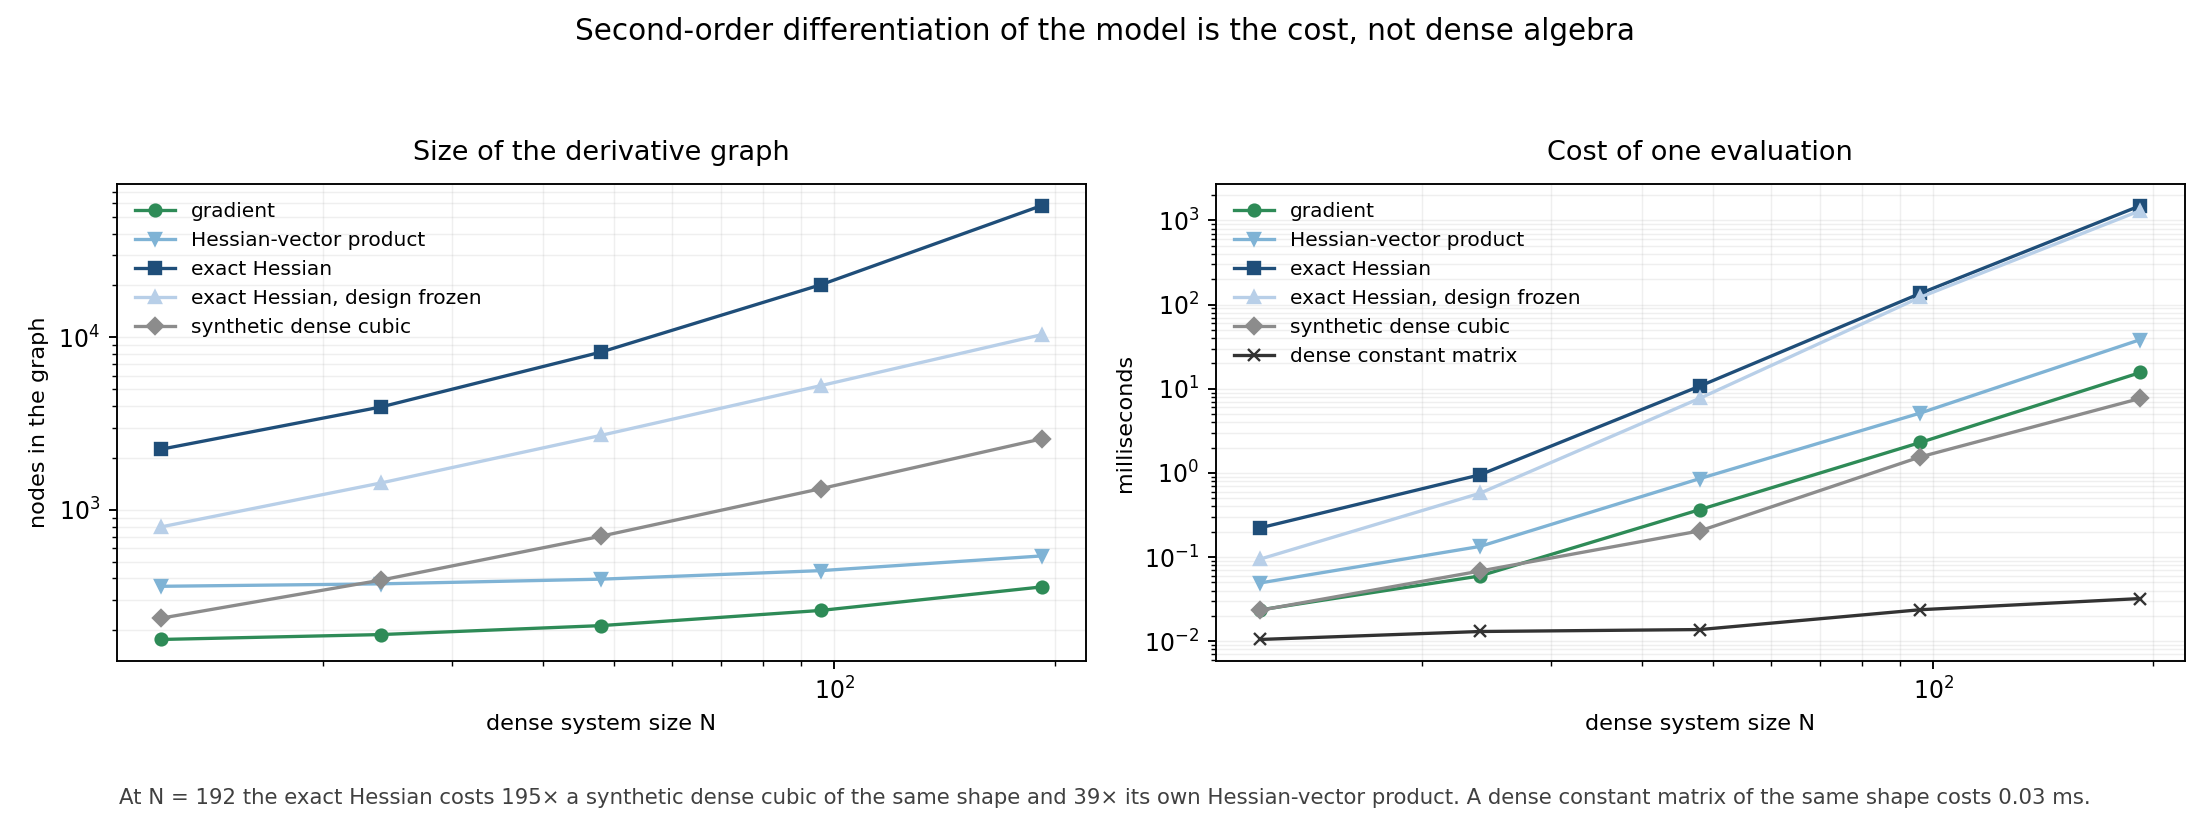
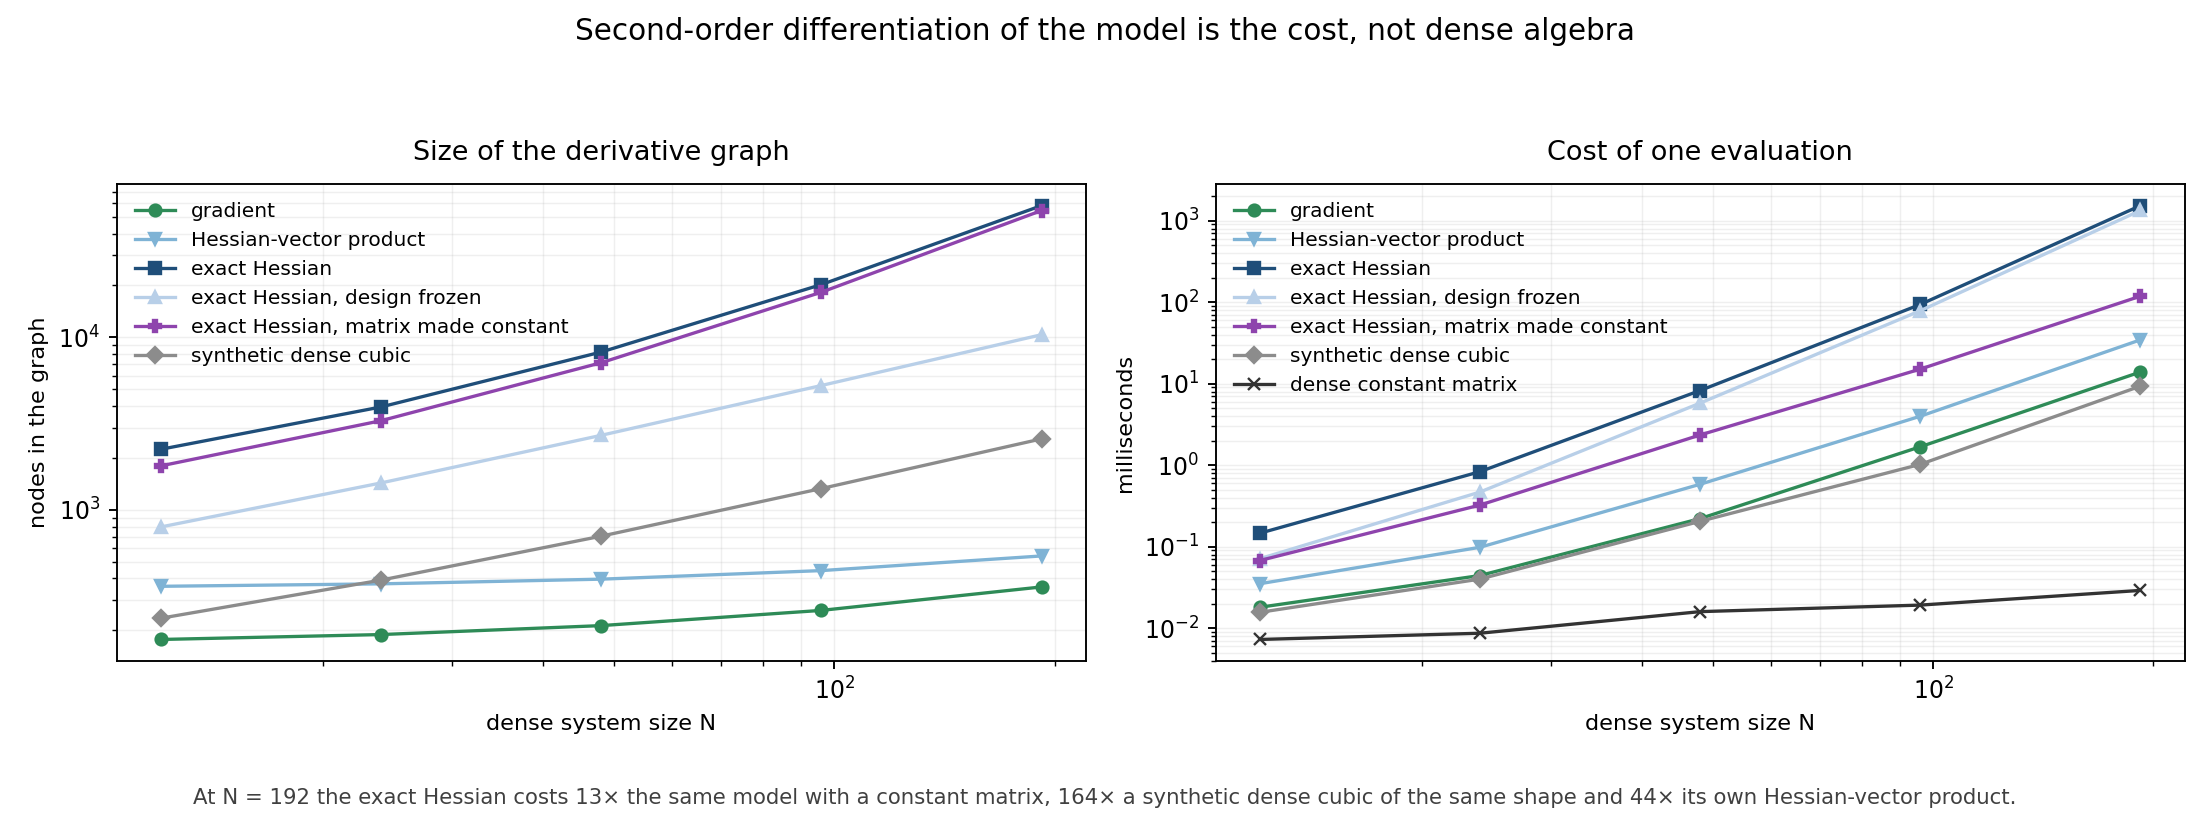
Replace the last hypothesis with a measurement
A third control makes the matrix constant, so that no solve has to be
differentiated: at N=192 the same model drops from 1529 ms to 118 ms, while
freezing the design parameters buys only 13 %. The cost is the second-order
differentiation of the dense solve, which the two earlier lessons had only ruled
out explanations for.

diff --git a/01-derivative-cost/scaling.py b/01-derivative-cost/scaling.py
@@ -33,7 +33,7 @@ state_value = 12.0
 rng = np.random.default_rng(0)
 
 print(f"{'N':>4}{'vars':>6}{'nnz':>7} | {'grad ms':>9}{'H.v ms':>9}{'H ms':>9}"
-      f"{'H frozen ms':>13}{'constant ms':>13}{'cubic ms':>10} |"
+      f"{'H frozen ms':>13}{'H state-frozen ms':>17}{'constant ms':>13}{'cubic ms':>10} |"
       f"{'nodes grad':>11}{'nodes H':>9}{'nodes Hf':>9}{'nodes cubic':>13}")
 rows = []
 for N in SIZES:
@@ -79,6 +79,15 @@ for N in SIZES:
         cas.MX.eye(N) + cas.diag(OMEGA * weights_ref / state) @ kernel_ref,
         OMEGA * weights_ref * (controls + 0.1 * locator),
     )
+    # Third control: the matrix stops depending on the state as well, so no solve
+    # has to be differentiated any more, while the outputs still depend on the
+    # controls and on the state.
+    matrix_constant = cas.DM(
+        np.eye(N)
+        + np.diag(np.asarray(weights_ref).ravel() * OMEGA / state_value)
+        @ np.asarray(kernel_ref)
+    )
+    response_state_frozen = cas.solve(matrix_constant, rhs)
     argument_ref = controls + COUPLING * (kernel_ref @ response_ref) / state
     transferred_ref = OMEGA * argument_ref - 5.0 * argument_ref**3
     outputs_ref = cas.vertcat(
@@ -106,6 +115,16 @@ for N in SIZES:
         "hessian_frozen_of", [variables],
         [cas.tril(cas.hessian(cas.sum1(outputs_ref), variables)[0], True)],
     )
+    argument_state_frozen = controls + COUPLING * (kernel @ response_state_frozen) / state
+    transferred_state_frozen = OMEGA * argument_state_frozen - 5.0 * argument_state_frozen**3
+    outputs_state_frozen = cas.vertcat(
+        state * cas.sum1(transferred_state_frozen * weights),
+        cas.sum1(argument_state_frozen * weights),
+    )
+    hessian_state_frozen = cas.Function(
+        "hessian_state_frozen_of", [variables],
+        [cas.tril(cas.hessian(cas.sum1(outputs_state_frozen), variables)[0], True)],
+    )
     constant = cas.Function(
         "constant_of", [variables], [cas.tril(dense_constant, True)]
     )
@@ -121,6 +140,7 @@ for N in SIZES:
         "hessian_vector": (hessian_vector, (point, direction_value)),
         "hessian": (hessian, (point,)),
         "hessian_frozen": (hessian_frozen, (point,)),
+        "hessian_state_frozen": (hessian_state_frozen, (point,)),
         "constant": (constant, (point,)),
         "cubic": (cubic, (point,)),
     }
@@ -144,11 +164,13 @@ for N in SIZES:
         "nodes_hessian_vector": int(hessian_vector.n_nodes()),
         "nodes_hessian": int(hessian.n_nodes()),
         "nodes_hessian_frozen": int(hessian_frozen.n_nodes()),
+        "nodes_hessian_state_frozen": int(hessian_state_frozen.n_nodes()),
         "nodes_cubic": int(cubic.n_nodes()),
         "gradient_ms": timings["gradient"],
         "hessian_vector_ms": timings["hessian_vector"],
         "hessian_ms": timings["hessian"],
         "hessian_frozen_ms": timings["hessian_frozen"],
+        "hessian_state_frozen_ms": timings["hessian_state_frozen"],
         "constant_ms": timings["constant"],
         "cubic_ms": timings["cubic"],
     }
@@ -156,8 +178,8 @@ for N in SIZES:
     rows.append(row)
     print(f"{N:>4}{nvars:>6}{row['nnz_hessian']:>7} | "
           f"{row['gradient_ms']:>9.3f}{row['hessian_vector_ms']:>9.3f}{row['hessian_ms']:>9.2f}"
-          f"{row['hessian_frozen_ms']:>13.2f}{row['constant_ms']:>13.4f}"
-          f"{row['cubic_ms']:>10.2f} |"
+          f"{row['hessian_frozen_ms']:>13.2f}{row['hessian_state_frozen_ms']:>17.2f}"
+          f"{row['constant_ms']:>13.4f}{row['cubic_ms']:>10.2f} |"
           f"{row['nodes_gradient']:>11}{row['nodes_hessian']:>9}"
           f"{row['nodes_hessian_frozen']:>9}{row['nodes_cubic']:>13}")
 

diff --git a/01-derivative-cost/figures.py b/01-derivative-cost/figures.py
@@ -137,6 +137,7 @@ def scaling_figure() -> None:
         ("Hessian-vector product", "nodes_hessian_vector", "#7fb3d5", "v"),
         ("exact Hessian", "nodes_hessian", "#1f4e79", "s"),
         ("exact Hessian, design frozen", "nodes_hessian_frozen", "#b8cfe8", "^"),
+        ("exact Hessian, matrix made constant", "nodes_hessian_state_frozen", "#8e44ad", "P"),
         ("synthetic dense cubic", "nodes_cubic", "0.55", "D"),
     )
     times = (
@@ -144,6 +145,7 @@ def scaling_figure() -> None:
         ("Hessian-vector product", "hessian_vector_ms", "#7fb3d5", "v"),
         ("exact Hessian", "hessian_ms", "#1f4e79", "s"),
         ("exact Hessian, design frozen", "hessian_frozen_ms", "#b8cfe8", "^"),
+        ("exact Hessian, matrix made constant", "hessian_state_frozen_ms", "#8e44ad", "P"),
         ("synthetic dense cubic", "cubic_ms", "0.55", "D"),
         ("dense constant matrix", "constant_ms", "0.2", "x"),
     )
@@ -171,10 +173,10 @@ def scaling_figure() -> None:
         0.5,
         0.035,
         f"At N = {last['N']} the exact Hessian costs "
-        f"{last['hessian_ms'] / last['cubic_ms']:.0f}\u00d7 a synthetic dense cubic of the same "
-        f"shape and {last['hessian_ms'] / last['hessian_vector_ms']:.0f}\u00d7 its own "
-        f"Hessian-vector product. A dense constant matrix of the same shape costs "
-        f"{last['constant_ms']:.2f} ms.",
+        f"{last['hessian_ms'] / last['hessian_state_frozen_ms']:.0f}\u00d7 the same model with a "
+        f"constant matrix, {last['hessian_ms'] / last['cubic_ms']:.0f}\u00d7 a synthetic dense "
+        f"cubic of the same shape and {last['hessian_ms'] / last['hessian_vector_ms']:.0f}\u00d7 "
+        f"its own Hessian-vector product.",
         ha="center",
         fontsize=9,
         color="0.25",

diff --git a/01-derivative-cost/check_equivalence.py b/01-derivative-cost/check_equivalence.py
@@ -14,6 +14,9 @@ This script builds both forms and compares, at several design points:
 Run:  python check_equivalence.py
 """
 
+import json
+from pathlib import Path
+
 import casadi as cas
 import numpy as np
 
@@ -131,6 +134,26 @@ for name in ("scalar", "matrix"):
         function(point)
         runs.append(time.perf_counter() - start)
     print(f"{name:<10}{function.n_nodes():>15}{np.median(runs) * 1e3:>13.2f} ms")
+Path(__file__).with_name("equivalence.json").write_text(
+    json.dumps(
+        {
+            "max_abs_difference": worst,
+            "design_points": [point.tolist() for point in test_points],
+            "nodes": {
+                "kernel_loop": functions["scalar"]["kernel"].n_nodes(),
+                "kernel_matrix": functions["matrix"]["kernel"].n_nodes(),
+                "hessian_loop": functions["scalar"]["hessian"].n_nodes(),
+                "hessian_matrix": functions["matrix"]["hessian"].n_nodes(),
+            },
+            "tolerance": TOLERANCE,
+        },
+        indent=2,
+    )
+    + "\n",
+    encoding="utf-8",
+)
+print("\nwrote equivalence.json")
+
 if max(worst.values()) < TOLERANCE:
     print("the two writings are the same object")
 else:

diff --git a/01-derivative-cost/README.md b/01-derivative-cost/README.md
@@ -69,7 +69,7 @@ are not:
 
 Measured by `check_equivalence.py`, which also verifies that the two writings
 agree to `7e-15` on the Hessian, `4e-15` on the gradient and `1e-17` on the
-kernel itself, over four design points.
+kernel itself, over four design points; the script writes `equivalence.json`.
 
 With `MX`, a matrix operation stays one node; a Python loop with scalar
 assignments creates one node per entry. This is pure representation: fixing it
@@ -100,38 +100,41 @@ is a lever on the order of magnitude we saw above.
 The obvious objection is that the Hessian is dense, so of course it gets
 expensive: at `N = 192` it has 19 503 nonzeros, exactly the full triangle. To
 separate "a dense object is expensive" from "differentiating this model is
-expensive", the sweep below adds two control objects of the same dimension:
+expensive", the sweep adds three controls of the same dimension:
 
 - a **dense constant matrix**, the floor cost of materialising that many numbers;
 - a **synthetic dense cubic** `sum((C x)^3)` with `C` dense and constant — a
-  genuinely dense, genuinely variable Hessian with no model structure in it.
+  genuinely dense, genuinely variable Hessian with no model structure in it;
+- the **same model with a constant matrix** — the design still drives the
+  right-hand side and the outputs, but no linear solve has to be differentiated.
 
-| `N` | nonzeros | gradient | `H·v` | exact Hessian | design frozen | dense cubic | dense constant |
-|---:|---:|---:|---:|---:|---:|---:|---:|
-| 12 | 153 | 0.02 ms | 0.05 ms | 0.22 ms | 0.09 ms | 0.02 ms | 0.011 ms |
-| 24 | 435 | 0.06 ms | 0.13 ms | 0.95 ms | 0.57 ms | 0.07 ms | 0.013 ms |
-| 48 | 1 431 | 0.37 ms | 0.86 ms | 10.8 ms | 7.7 ms | 0.20 ms | 0.014 ms |
-| 96 | 5 151 | 2.3 ms | 5.1 ms | 136 ms | 122 ms | 1.6 ms | 0.024 ms |
-| 192 | 19 503 | 16 ms | 38 ms | **1 502 ms** | 1 313 ms | 7.7 ms | 0.032 ms |
+| `N` | nonzeros | gradient | `H·v` | exact Hessian | design frozen | matrix constant | dense cubic | dense constant |
+|---:|---:|---:|---:|---:|---:|---:|---:|---:|
+| 12 | 153 | 0.018 ms | 0.035 ms | 0.15 ms | 0.07 ms | 0.07 ms | 0.02 ms | 0.007 ms |
+| 24 | 435 | 0.044 ms | 0.098 ms | 0.83 ms | 0.47 ms | 0.32 ms | 0.04 ms | 0.009 ms |
+| 48 | 1 431 | 0.22 ms | 0.58 ms | 8.2 ms | 5.8 ms | 2.4 ms | 0.20 ms | 0.016 ms |
+| 96 | 5 151 | 1.7 ms | 4.0 ms | 94 ms | 78 ms | 15 ms | 1.0 ms | 0.019 ms |
+| 192 | 19 503 | 14 ms | 34 ms | **1 529 ms** | 1 332 ms | **118 ms** | 9.3 ms | 0.029 ms |
 
-Three readings:
+Four readings:
 
 1. **It is not the size of the object.** Materialising a dense matrix of the same
-   shape costs 0.03 ms at `N = 192` — five orders of magnitude below the model.
+   shape costs 0.03 ms at `N = 192` — four to five orders of magnitude below the
+   model.
 2. **It is not dense algebra in general.** The synthetic cubic has a dense,
-   variable Hessian of the same shape and costs 7.7 ms, 195 times less. The
-   expensive part is specific to the model: differentiating the dense solve and
-   the matrix products around it.
-3. **Materialising the full second-order object has its own price.** The
-   Hessian-vector product is 39 times cheaper than the complete Hessian at the
+   variable Hessian of the same shape and costs 9.3 ms, 164 times less.
+3. **It is not the design dependence.** Freezing the design parameters inside the
+   matrix buys only 13 % at `N = 192`. What costs is differentiating the solve
+   itself: with a constant matrix the same model drops from 1 529 ms to 118 ms,
+   a factor of 13.
+4. **Materialising the full second-order object has its own price.** The
+   Hessian-vector product is 44 times cheaper than the complete Hessian at the
    same size. If a solver only needs directional second-order information, the
    full matrix is not the thing to build.
 
-One observation the numbers force, and which deserves stating rather than
-explaining away: freezing the design parameters cuts the graph by a factor of 5.6
-at `N = 192` but the evaluation time by only 14 %. The two graphs share the part
-that dominates — differentiating the dense solve, which still depends on the
-state. Design dependence is no longer the driver at this size; the operator is.
+The first two lessons said what the cost is *not*; the third control says where it
+is: in the second-order differentiation of a dense solve whose matrix depends on
+the variables, whether they are design parameters, controls or state.
 
 ## Reading the pattern
 
@@ -149,7 +152,10 @@ count what is computed.
 - **Freeze what is genuinely constant.** NumPy values, not symbolic loops, for
   anything that does not depend on the decision variables.
 - **Ask whether you need the full Hessian.** Directional second-order information
-  is an order of magnitude cheaper here; quasi-Newton updates are cheaper still.
+  is an order of magnitude cheaper here.
+- **Look at what the matrix depends on, not only at how big it is.** The solve was
+  the whole cost here; freezing the design parameters, which looked like the
+  obvious suspect, changed almost nothing.
 - **Check before rewriting your solve.** On this structure, elimination, closure
   constraints and an implicit rootfinder are interchangeable in cost.
 
@@ -179,7 +185,9 @@ Everything above measures a model in isolation: derivatives of its outputs, not 
 solved NLP. Nothing here says how these costs translate into IPOPT iterations, a
 KKT factorisation, or the wall time of a complete optimisation. The claim is
 narrower: for this structure, the derivative cost lives in the second-order
-differentiation of the model, and not in the dense object's size or its algebra.
+differentiation of the dense solve inside the model, not in the size of the dense
+object, not in its algebra, and not in which variables its matrix happens to
+depend on.
 
 ## Reproduce
 
@@ -190,8 +198,9 @@ python scaling.py             # N = 12 to 192, with controls -> scaling.json
 python figures.py             # figures/cost.png, patterns.png, scaling.png
 ```
 
-Times are single-thread medians on a shared workstation and move by about 20 %
-between runs; the graph sizes do not.
+Times are single-thread medians on a shared workstation. They move by tens of
+percent between runs, up to about 40 % on the slowest curve; the graph sizes and
+the nonzeros do not. Compare a fresh run to `scaling.json` with that in mind.
 
 ## References
 
